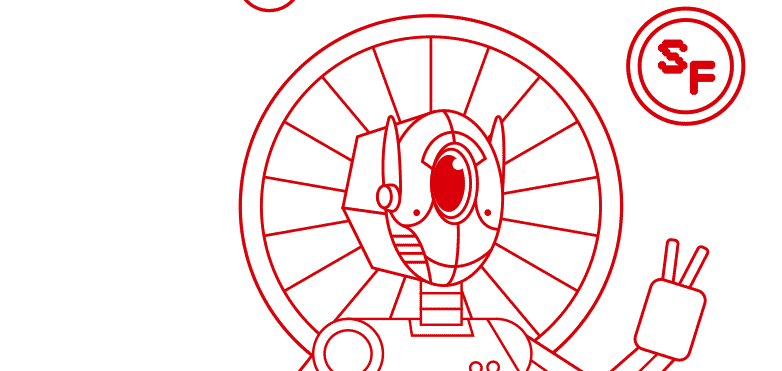
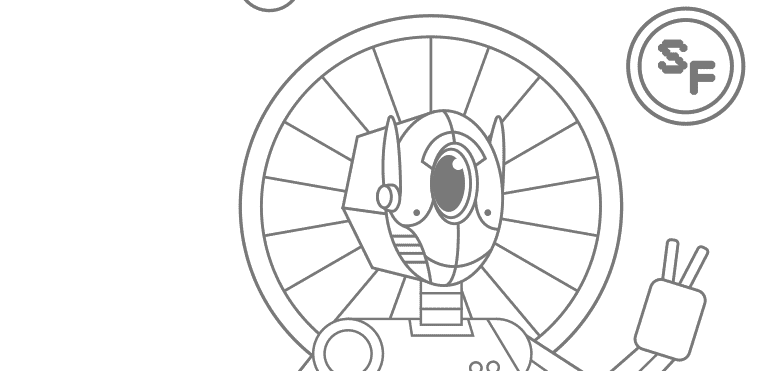
updated Security Fest

diff --git a/_events/2017-06-01-securityfest.md b/_events/2017-06-01-securityfest.md
@@ -7,7 +7,7 @@ location:   "Gothenburg, Sweden"
 time_start: "9:00"
 time_end:   "18:00"
 categories: securityfest gothenburg sweden
-image:      /assets/images/events/securityfest.png
+image:      /assets/images/events/securityfest-orig.png
 color:      violet
 map_url:    https://mapsengine.google.com/map/embed?mid=15uoGSLZLA2dZkBw43rJ31V5m3xk
 ---
